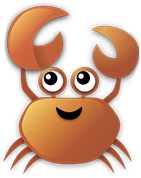
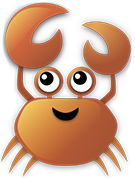
completed math game

diff --git a/js/loadGamemode.js b/js/loadGamemode.js
@@ -53,6 +53,12 @@ function loadGamemode() {
     imageRepository.background2.src = "images/mathbg/cloudwater.png";
     imageRepository.background3.src = "images/mathbg/base.png";
     
+    if (window.innerWidth >= 1000) {
+      imageRepository.player.src = "images/crab.png";
+    } else {
+      imageRepository.player.src = "images/crabmobile.png";
+    }
+    
     // Play jungle music for math game
     mathMusic.loop(true);
     mathMusic.fadeIn(1, 1800);
